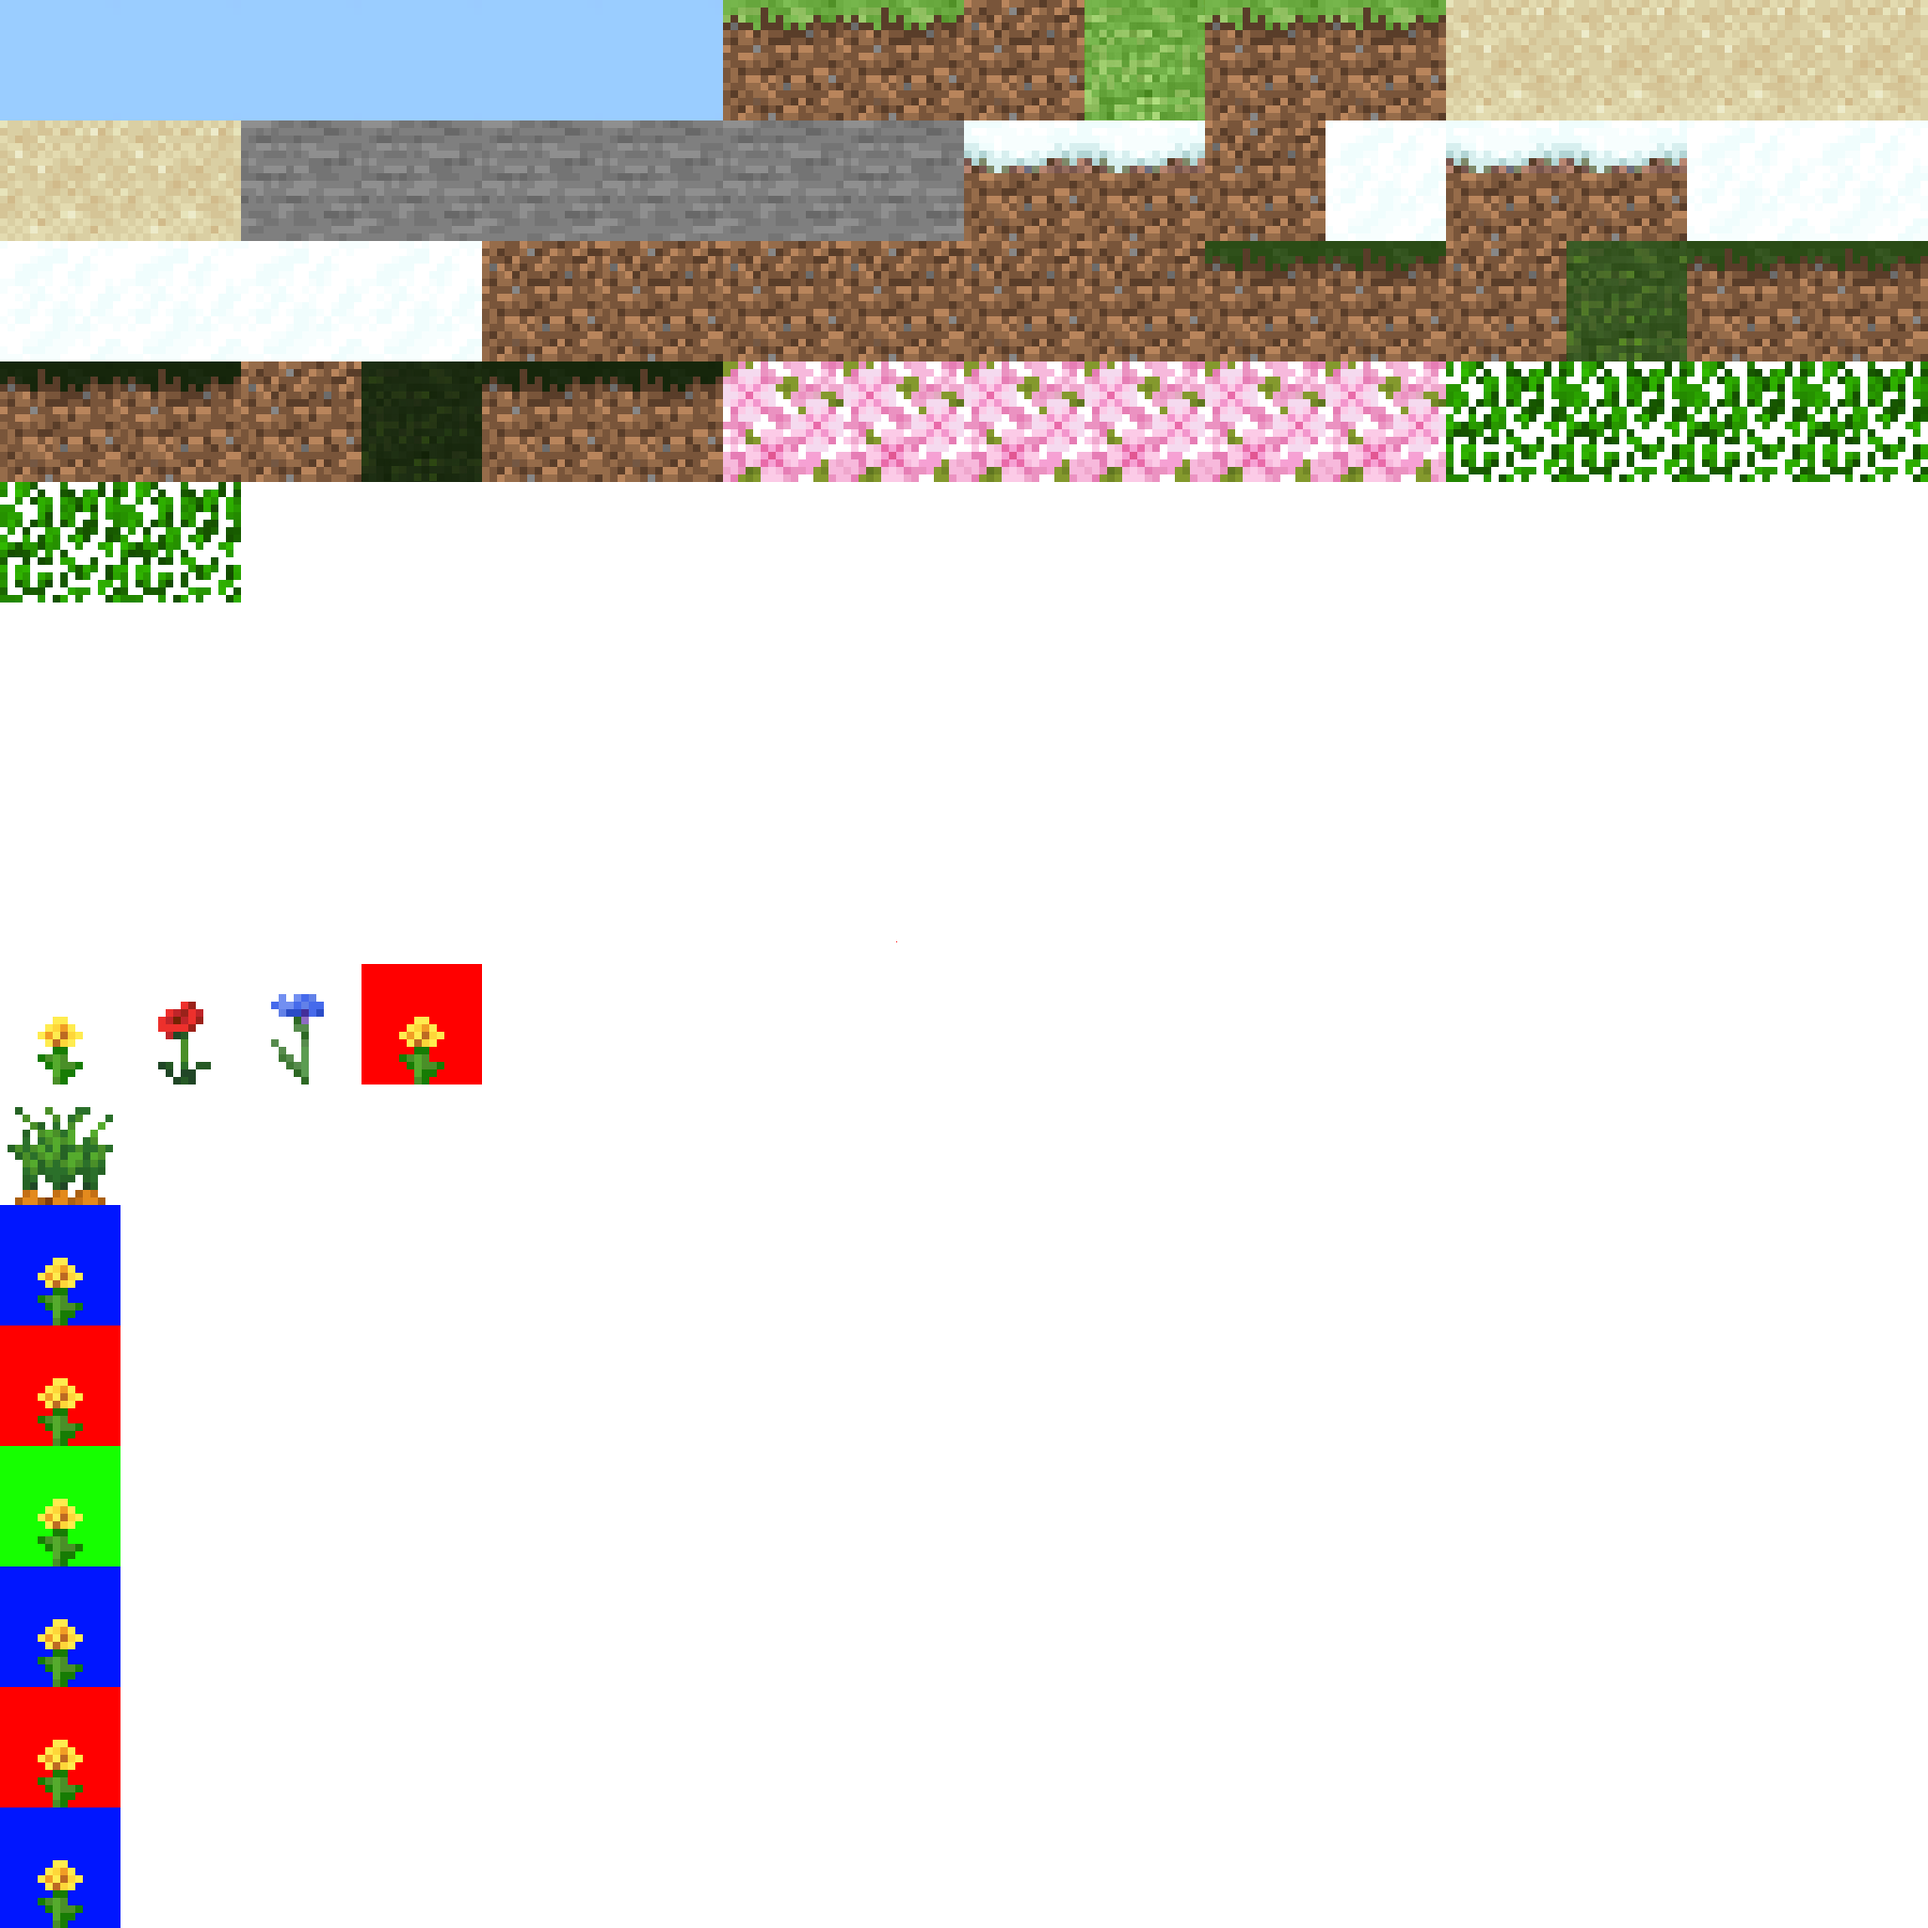
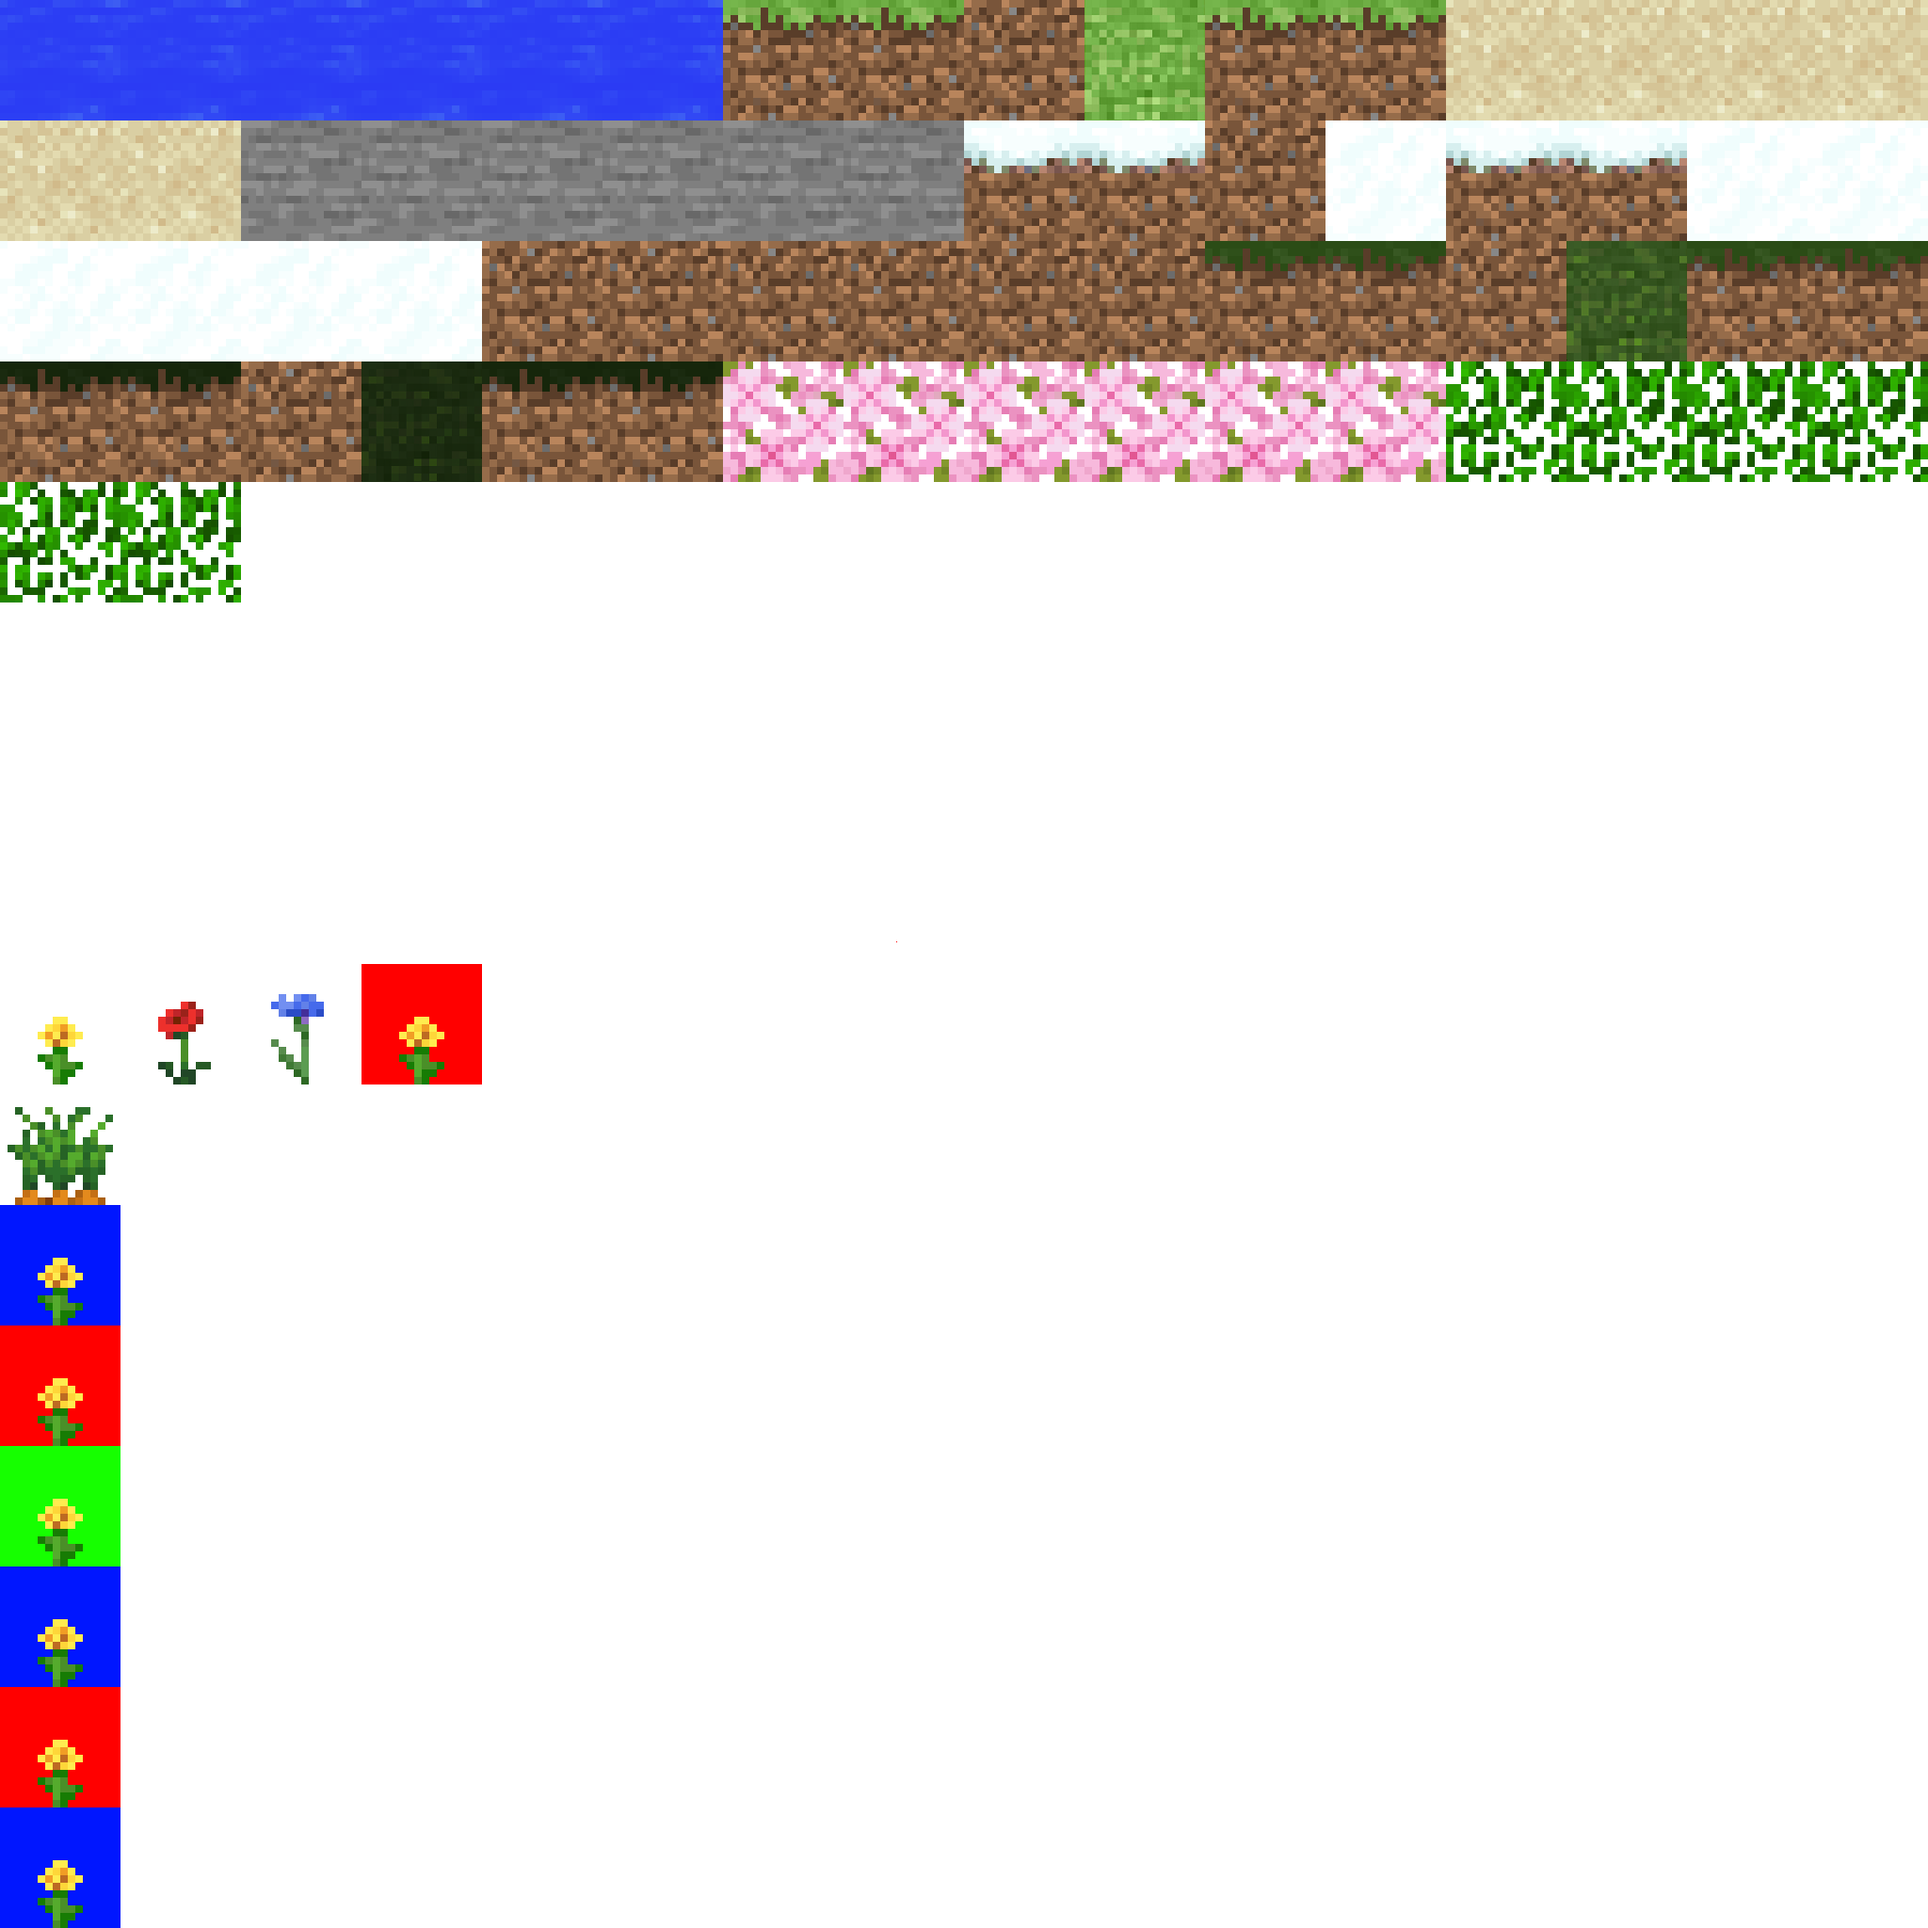
FEAT: water shading 구현

Changed region(s): [[0.0, 0.0, 0.375, 0.0625]]

diff --git a/voxen/App.cpp b/voxen/App.cpp
@@ -166,8 +166,8 @@ void App::Render()
 	Graphics::context->RSSetViewports(1, &Graphics::basicViewport);
 
 	// postEffect
-	Graphics::SetPipelineStates(Graphics::postEffectPSO);
-	m_postEffect.Render();
+	//Graphics::SetPipelineStates(Graphics::postEffectPSO);
+	//m_postEffect.Render();
 
 	Graphics::context->OMSetRenderTargets(
 		1, Graphics::basicRTV.GetAddressOf(), Graphics::basicDSV.Get());
@@ -379,9 +379,15 @@ void App::RenderMirror()
 		1, Graphics::basicRTV.GetAddressOf(), Graphics::basicDSV.Get());
 
 	// mirror blending
+	Graphics::context->ResolveSubresource(Graphics::postEffectResolvedBuffer.Get(), 0,
+		Graphics::basicRenderBuffer.Get(), 0, DXGI_FORMAT_R8G8B8A8_UNORM);
+
 	std::vector<ID3D11ShaderResourceView*> pptr = { Graphics::atlasMapSRV.Get(),
-		Graphics::mirrorWorldRenderSRV.Get(), Graphics::depthOnlySRV.Get() };
-	Graphics::context->PSSetShaderResources(0, 3, pptr.data());
+		Graphics::mirrorWorldRenderSRV.Get(),
+		Graphics::depthOnlySRV.Get(),
+		Graphics::postEffectSRV.Get()
+	};
+	Graphics::context->PSSetShaderResources(0, 4, pptr.data());
 
 	Graphics::SetPipelineStates(Graphics::mirrorBlendPSO);
 	m_chunkManager.RenderTransparency();

diff --git a/voxen/Graphics.cpp b/voxen/Graphics.cpp
@@ -891,25 +891,6 @@ bool Graphics::InitBlendStates()
 		return false;
 	}
 
-	// src BS
-	ZeroMemory(&desc, sizeof(desc));
-	desc.AlphaToCoverageEnable = false;
-	desc.IndependentBlendEnable = false;
-	desc.RenderTarget[0].BlendEnable = true;
-	desc.RenderTarget[0].SrcBlend = D3D11_BLEND_SRC_COLOR;
-	desc.RenderTarget[0].DestBlend = D3D11_BLEND_INV_SRC_COLOR;
-	desc.RenderTarget[0].BlendOp = D3D11_BLEND_OP_ADD;
-	desc.RenderTarget[0].SrcBlendAlpha = D3D11_BLEND_ONE;
-	desc.RenderTarget[0].DestBlendAlpha = D3D11_BLEND_ZERO;
-	desc.RenderTarget[0].BlendOpAlpha = D3D11_BLEND_OP_ADD;
-	desc.RenderTarget[0].RenderTargetWriteMask = D3D11_COLOR_WRITE_ENABLE_ALL;
-
-	ret = Graphics::device->CreateBlendState(&desc, srcBS.GetAddressOf());
-	if (FAILED(ret)) {
-		std::cout << "failed create alpha BS" << std::endl;
-		return false;
-	}
-
 	return true;
 }
 
@@ -992,7 +973,6 @@ void Graphics::InitGraphicsPSO()
 	// mirrorBlendPSO
 	mirrorBlendPSO = basicPSO;
 	mirrorBlendPSO.pixelShader = transparencyPS;
-	//mirrorBlendPSO.blendState = srcBS;
 }
 
 void Graphics::SetPipelineStates(GraphicsPSO& pso)

diff --git a/voxen/PostEffect.cpp b/voxen/PostEffect.cpp
@@ -31,9 +31,6 @@ bool PostEffect::Initialize()
 
 void PostEffect::Render()
 {
-	Graphics::context->ResolveSubresource(Graphics::postEffectResolvedBuffer.Get(), 0,
-		Graphics::basicRenderBuffer.Get(), 0, DXGI_FORMAT_R8G8B8A8_UNORM);
-
 	Graphics::context->IASetIndexBuffer(m_indexBuffer.Get(), DXGI_FORMAT_R32_UINT, 0);
 	Graphics::context->IASetVertexBuffers(0, 1, m_vertexBuffer.GetAddressOf(), &m_stride, &m_offset);
 	Graphics::context->OMSetRenderTargets(1, Graphics::basicRTV.GetAddressOf(), nullptr);

diff --git a/voxen/Graphics.h b/voxen/Graphics.h
@@ -69,7 +69,6 @@ namespace Graphics {
 	
 	// Blend State
 	extern ComPtr<ID3D11BlendState> alphaBS;
-	extern ComPtr<ID3D11BlendState> srcBS;
 
 
 	// RTV & Buffer
